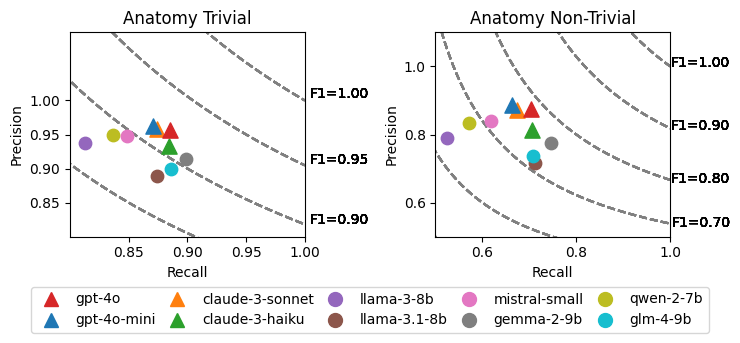
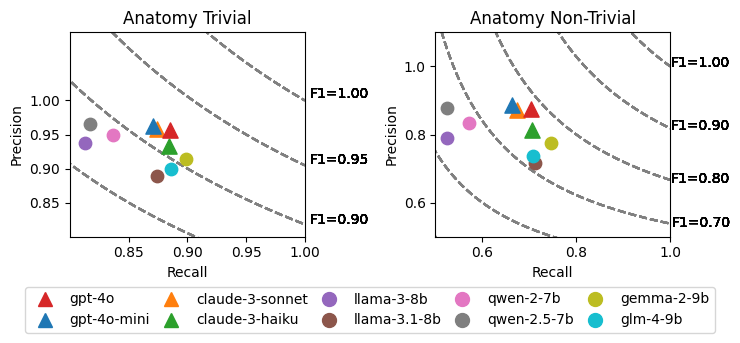
PVLDB camera ready - Change function cleaning() in util.py

diff --git a/run_config.py b/run_config.py
@@ -29,6 +29,18 @@ llm = ChatOpenAI(model_name='gpt-4o-2024-05-13', temperature=0)
 # llm = ChatAnthropic(model="claude-3-opus-20240229", temperature=0) # expensive
 # llm = ChatAnthropic(model="claude-3-sonnet-20240229", temperature=0)
 # llm = ChatAnthropic(model="claude-3-haiku-20240307", temperature=0)
+# # load Llama 3
+# llm = ChatOllama(model="llama3:8b", temperature=0)
+# llm = ChatOllama(model="llama3.1:8b", temperature=0)
+# # load Qwen
+# llm = ChatOllama(model="qwen2:7b", temperature=0)
+# llm = ChatOllama(model="qwen2.5:7b", temperature=0)
+# # load Gemma
+# llm = ChatOllama(model="gemma2:9b", temperature=0)
+# # load GLM
+# llm = ChatOllama(model="glm4:9b", temperature=0)
+
+# # load other models
 # # load Mistral, default timeout = 120 is too short
 # llm = ChatMistralAI(model="mistral-large-2407", temperature=0, timeout=1200)
 # llm = ChatMistralAI(model="mistral-medium-2312", temperature=0) # will soon be deprecated
@@ -37,16 +49,9 @@ llm = ChatOpenAI(model_name='gpt-4o-2024-05-13', temperature=0)
 # llm = ChatOllama(model="mistral-large:123b", temperature=0) # same to mistral-large-2407
 # llm = ChatOllama(model="mistral-small:22b", temperature=0) # same to mistral-small-2409
 # llm = ChatOllama(model="mistral-nemo:12b", temperature=0) # same to mistral-nemo-2407
-# # load Llama 3
-# llm = ChatOllama(model="llama3:8b", temperature=0)
-# llm = ChatOllama(model="llama3.1:8b", temperature=0)
-# # load Gemma
-# llm = ChatOllama(model="gemma2:9b", temperature=0)
-# # load Qwen
-# llm = ChatOllama(model="qwen2:7b", temperature=0)
-# llm = ChatOllama(model="qwen2.5:7b", temperature=0)
-# llm = ChatOllama(model="glm4:9b", temperature=0)
+# # load Yi
 # llm = ChatOllama(model="yi:9b", temperature=0)
+# # load Hermes
 # llm = ChatOllama(model="hermes3:8b", temperature=0)
 
 # embedding settings

diff --git a/util.py b/util.py
@@ -5,6 +5,9 @@ import enchant
 import pandas as pd
 import colorama
 
+import jieba
+from langdetect import detect
+from nltk.tokenize import word_tokenize
 
 # initialize colorama
 colorama.init(autoreset=True)
@@ -133,7 +136,14 @@ def cleaning(name):
         cleaned_name = change_to_snake_case(cleaned_name)
     cleaned_name = cleaned_name.lower()
     cleaned_name = change_british_to_american(cleaned_name)
-    return cleaned_name
+    # detect language
+    lang = detect(cleaned_name)
+    # tokenization
+    if lang == "zh-cn":
+        tokens = jieba.lcut(cleaned_name)
+    else:
+        tokens = word_tokenize(cleaned_name)
+    return " ".join(tokens)
 
 
 def calculate_metrics(true_path, predict_path, result_path, llm, alignment):

diff --git a/README.md b/README.md
@@ -59,6 +59,9 @@ pip install pgvector==0.1.8
 pip install commentjson==0.9.0
 pip install transformers==4.41.1
 pip install colorama==0.4.6
+pip install jieba==0.42.1
+pip install langdetect==1.0.9
+pip install nltk==3.9.1
 ```
 - Install visualisation packages:
 ```
@@ -155,9 +158,6 @@ llm = ChatOpenAI(model_name='gpt-3.5-turbo-0125', temperature=0) # old
 llm = ChatAnthropic(model="claude-3-opus-20240229", temperature=0) # expensive
 llm = ChatAnthropic(model="claude-3-sonnet-20240229", temperature=0)
 llm = ChatAnthropic(model="claude-3-haiku-20240307", temperature=0)
-
-# load Mistral open-source models: https://ollama.com/library/mistral
-llm = ChatOllama(model="mistral:7b", temperature=0)
 
 # load Llama models: https://ollama.com/library/llama3
 llm = ChatOllama(model="llama3:8b", temperature=0)